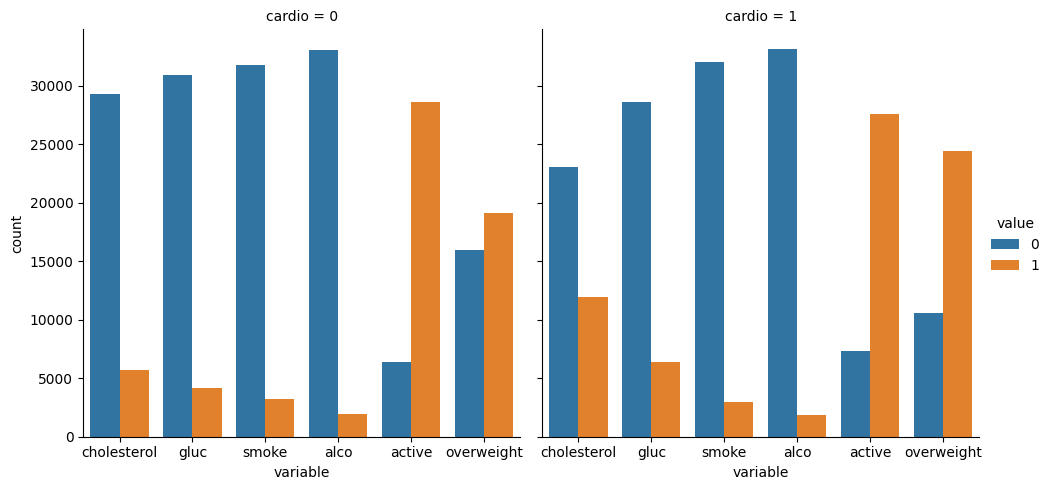
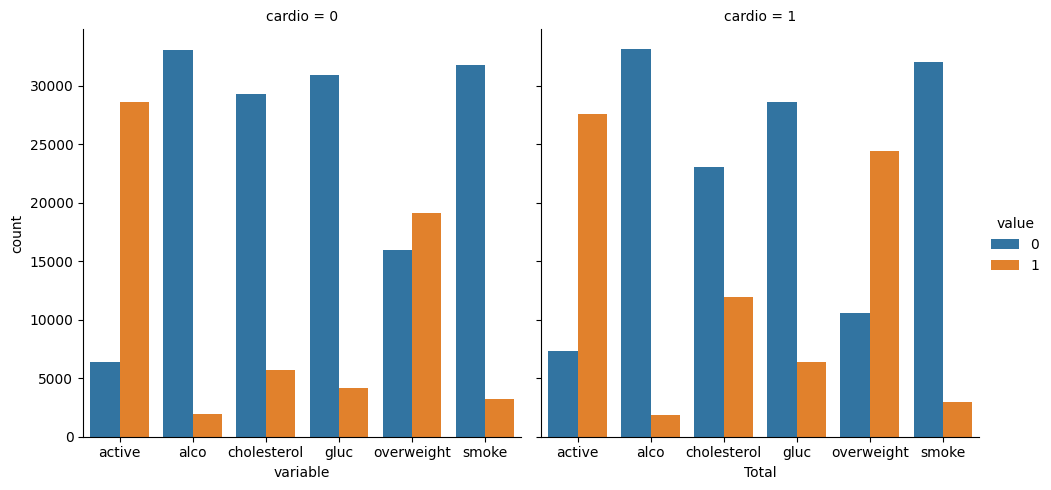
final

diff --git a/Medical Data Visualizer/medical_data_visualizer.py b/Medical Data Visualizer/medical_data_visualizer.py
@@ -18,13 +18,14 @@ df["gluc"] = df["gluc"].apply(lambda x : 1 if x > 1 else 0)
 # Draw Categorical Plot
 def draw_cat_plot():
     # Create DataFrame for cat plot using `pd.melt` using just the values from 'cholesterol', 'gluc', 'smoke', 'alco', 'active', and 'overweight'.
-    df_cat = pd.melt(df, id_vars=["cardio"], value_vars=['cholesterol', 'gluc', 'smoke', 'alco', 'active', 'overweight'])
+    df_cat = pd.melt(df, id_vars=["cardio"], value_vars=['active', 'alco', 'cholesterol', 'gluc', 'overweight', 'smoke'])
 
     # Group and reformat the data to split it by 'cardio'. Show the counts of each feature. You will have to rename one of the columns for the catplot to work correctly.
 
     # Draw the catplot with 'sns.catplot()'
     # Get the figure for the output
     fig = sns.catplot(data=df_cat, x="variable", kind="count", col="cardio",hue="value")
+    plt.xlabel("Total")
     
     # Do not modify the next two lines
     fig.savefig('catplot.png')
